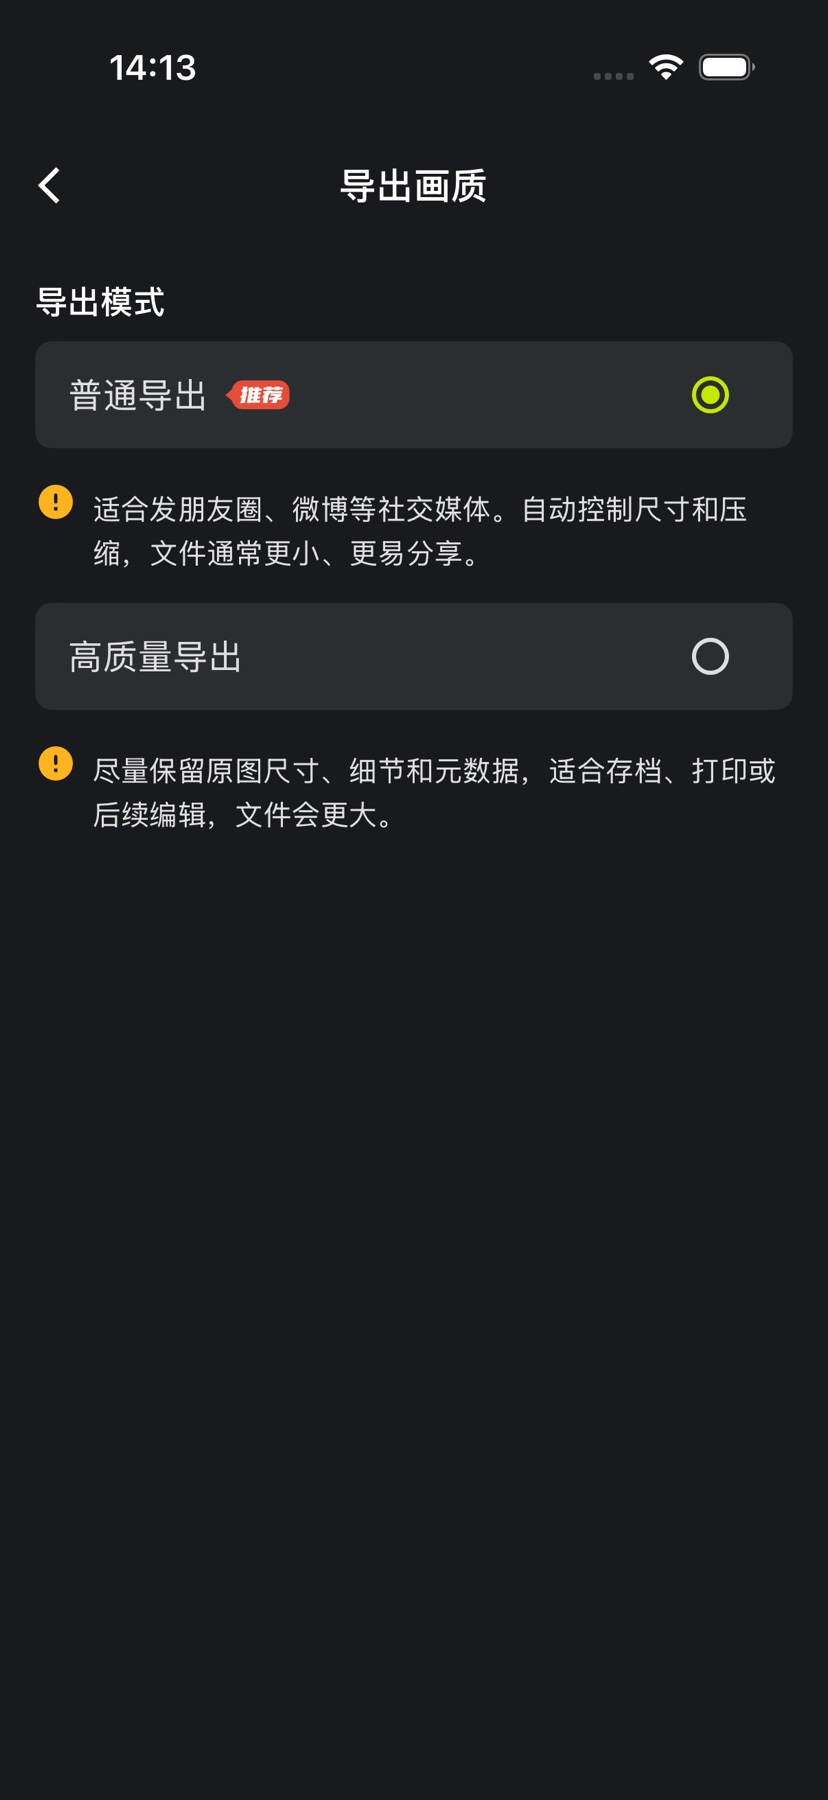
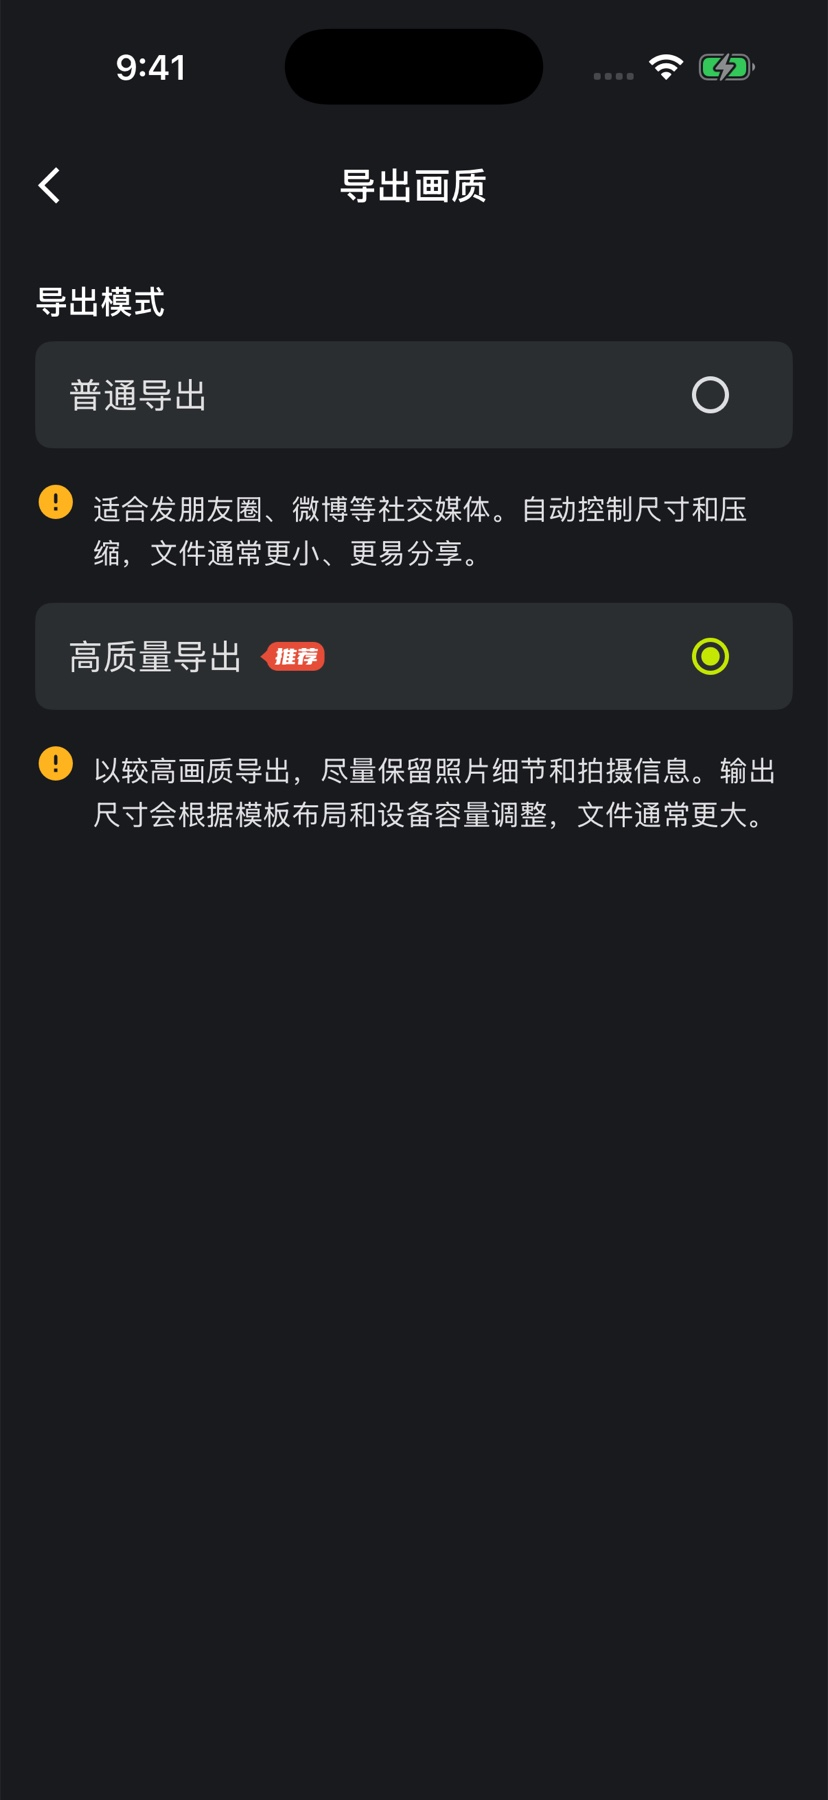
统一为 iOS 实际截图并使用补齐 EXIF 的摄影素材

diff --git a/light-shadow-border/index.html b/light-shadow-border/index.html
@@ -5,17 +5,17 @@
 <title>光影边框 · 照片边框、参数水印与批量编辑</title>
 <meta name="description" content="光影边框，为照片与视频添加边框、参数水印、旅行票根与创意模板。自定义 Logo、文字与版式，批量保存喜欢的风格。支持 iOS、Android 与 HarmonyOS。">
 <meta property="og:title" content="光影边框 · 照片边框、参数水印与批量编辑"><meta property="og:description" content="看真实 App 界面：从首页选模板，到调整 Logo、拍摄参数、画幅与导出画质。"><meta property="og:type" content="website">
-<link rel="icon" href="assets/icon.png" type="image/png"><link rel="stylesheet" href="style.css?v=20261116-app-screens"><script src="download-routing.js?v=20261116-app-screens" defer></script><script src="app.js?v=20261116-app-screens" defer></script>
+<link rel="icon" href="assets/icon.png" type="image/png"><link rel="stylesheet" href="style.css?v=20261116-ios-exif"><script src="download-routing.js?v=20261116-ios-exif" defer></script><script src="app.js?v=20261116-ios-exif" defer></script>
 </head>
 <body>
 <a class="skip-link" href="#main">跳到正文</a>
 <header class="site-header"><div class="header-inner"><a class="brand" href="#main" aria-label="光影边框首页"><img src="assets/icon.png" alt="" width="32" height="32"><span>光影边框</span></a><nav class="main-nav" aria-label="页面导航"><a href="#app-tour">App 界面</a><a href="#templates">模板</a><a class="nav-secondary" href="#cooperation">品牌合作</a><a href="#support">支持</a></nav><a class="header-action" href="#download">获取 App <span aria-hidden="true">↗</span></a></div></header>
 <main id="main">
-<section class="hero hero-product" aria-labelledby="hero-title"><div class="hero-glow" aria-hidden="true"></div><div class="hero-product-grid wrap"><div class="hero-content"><p class="eyebrow-pill"><span class="color-dot" aria-hidden="true"></span> 光影边框 · 手机照片与视频边框工具</p><h1 id="hero-title">照片加边框，<br><span class="gradient-text">水印、参数一起留。</span></h1><p class="hero-description">从首页选一个模板，加入自己的照片。调整 Logo、相机型号、焦距、光圈、快门与 ISO，再把同一组照片批量保存到相册。</p><div class="hero-feature-tags"><span>照片边框</span><span>EXIF 参数水印</span><span>自定义 Logo</span><span>多图批量编辑</span></div><div class="hero-actions"><a class="button button-dark" href="https://apps.apple.com/cn/app/id6446897199" target="_blank" rel="noopener noreferrer"><svg viewBox="0 0 24 24" aria-hidden="true"><rect x="7" y="2.5" width="10" height="19" rx="2.5"></rect><path d="M10 5h4M11 18.5h2"></path></svg>在 App Store 获取</a><a class="button button-light" href="#app-tour">看看 App 怎么用 <span aria-hidden="true">↓</span></a></div><p class="hero-meta">iOS / Android / HarmonyOS <span>·</span> 基础功能免费，含会员增值服务</p></div><div class="hero-app-screens" aria-label="光影边框实际 App 界面"><figure class="hero-app-home"><a href="assets/app-home-android.jpg" target="_blank" rel="noopener noreferrer" aria-label="查看模板首页大图"><div class="app-phone"><img src="assets/app-home-android.jpg" alt="光影边框 Android 首页：按分类展示光影水印、背景模糊等模板，底部包含首页、视频专区和我的。" width="1080" height="2340" fetchpriority="high"></div></a><figcaption>首页选模板</figcaption></figure><figure class="hero-app-editor"><a href="assets/app-editor-android.jpg" target="_blank" rel="noopener noreferrer" aria-label="查看照片编辑页大图"><div class="app-phone"><img src="assets/app-editor-android.jpg" alt="光影边框 Android 编辑页：海边照片配合模糊背景和 Nikon 拍摄参数，底部提供画幅比例、Logo、参数、主题、阴影和边距。" width="1080" height="2340" decoding="async"></div></a><figcaption>在编辑页调比例、Logo 与参数</figcaption></figure><p class="hero-screen-note">Android App 实际界面 · 点击截图可查看大图</p></div></div></section>
+<section class="hero hero-product" aria-labelledby="hero-title"><div class="hero-glow" aria-hidden="true"></div><div class="hero-product-grid wrap"><div class="hero-content"><p class="eyebrow-pill"><span class="color-dot" aria-hidden="true"></span> 光影边框 · 手机照片与视频边框工具</p><h1 id="hero-title">照片加边框，<br><span class="gradient-text">水印、参数一起留。</span></h1><p class="hero-description">从首页选一个模板，加入自己的照片。调整 Logo、相机型号、焦距、光圈、快门与 ISO，再把同一组照片批量保存到相册。</p><div class="hero-feature-tags"><span>照片边框</span><span>EXIF 参数水印</span><span>自定义 Logo</span><span>多图批量编辑</span></div><div class="hero-actions"><a class="button button-dark" href="https://apps.apple.com/cn/app/id6446897199" target="_blank" rel="noopener noreferrer"><svg viewBox="0 0 24 24" aria-hidden="true"><rect x="7" y="2.5" width="10" height="19" rx="2.5"></rect><path d="M10 5h4M11 18.5h2"></path></svg>在 App Store 获取</a><a class="button button-light" href="#app-tour">看看 App 怎么用 <span aria-hidden="true">↓</span></a></div><p class="hero-meta">iOS / Android / HarmonyOS <span>·</span> 基础功能免费，含会员增值服务</p></div><div class="hero-app-screens" aria-label="光影边框实际 App 界面"><figure class="hero-app-home"><a href="assets/app-home-ios.jpg" target="_blank" rel="noopener noreferrer" aria-label="查看模板首页大图"><div class="app-phone"><img src="assets/app-home-ios.jpg" alt="光影边框 iOS 首页：按分类展示光影水印、背景模糊等模板，底部包含首页、视频专区和我的。" width="1206" height="2622" fetchpriority="high"></div></a><figcaption>首页选模板</figcaption></figure><figure class="hero-app-editor"><a href="assets/app-editor-ios.jpg" target="_blank" rel="noopener noreferrer" aria-label="查看照片编辑页大图"><div class="app-phone"><img src="assets/app-editor-ios.jpg" alt="光影边框 iOS 编辑页：山海摄影示例配合模糊背景和 Sony 拍摄参数，底部提供画幅比例、Logo、参数、主题、阴影和边距。" width="1206" height="2622" decoding="async"></div></a><figcaption>在编辑页调比例、Logo 与参数</figcaption></figure><p class="hero-screen-note">iOS App 实际界面 · 点击截图可查看大图</p></div></div></section>
 
 
 
-<section class="app-tour-section wrap" id="app-tour" aria-labelledby="app-tour-title"><div class="section-intro centered"><p class="eyebrow">打开 App，实际就是这样用</p><h2 id="app-tour-title">模板、编辑、批量保存，<br>看一遍就知道怎么做。</h2><p>下面展示实际 App 截图。切换步骤，查看对应的界面和操作。</p></div><div class="app-tour-tabs" role="tablist" aria-label="App 操作步骤"><button id="app-tab-home" type="button" role="tab" aria-selected="true" aria-controls="app-tour-panel" tabindex="0" data-app-step="home">01 选模板</button><button id="app-tab-editor" type="button" role="tab" aria-selected="false" aria-controls="app-tour-panel" tabindex="-1" data-app-step="editor">02 调边框</button><button id="app-tab-batch" type="button" role="tab" aria-selected="false" aria-controls="app-tour-panel" tabindex="-1" data-app-step="batch">03 批量编辑</button><button id="app-tab-logo" type="button" role="tab" aria-selected="false" aria-controls="app-tour-panel" tabindex="-1" data-app-step="logo">04 改 Logo</button><button id="app-tab-quality" type="button" role="tab" aria-selected="false" aria-controls="app-tour-panel" tabindex="-1" data-app-step="quality">05 选画质</button></div><div class="app-tour-panel" id="app-tour-panel" role="tabpanel" aria-labelledby="app-tab-home" tabindex="0"><div class="tour-screen-stage" id="tour-screen-stage" data-frame="phone"><a id="tour-screen-link" href="assets/app-home-android.jpg" target="_blank" rel="noopener noreferrer" aria-label="查看当前 App 界面大图"><div class="tour-image-frame"><img id="tour-screen" src="assets/app-home-android.jpg" alt="光影边框 Android 模板首页。" width="1080" height="2340" loading="lazy"></div></a></div><div class="tour-step-copy"><p class="eyebrow" id="tour-platform">模板首页 · Android 实际截图</p><h3 id="tour-step-title">先在首页，挑好想用的模板。</h3><p id="tour-step-description">光影水印、背景模糊等模板按类别排列，先看预览再进入编辑。底部还有视频专区和我的，照片和视频的入口一眼能分清。</p><ul id="tour-step-points"><li>浏览每一类模板的成图预览。</li><li>点选模板后，从相册加入自己的照片。</li><li>视频水印从底部“视频专区”进入。</li></ul><p class="tour-action-hint" id="tour-action-hint">操作路径：首页 → 选择模板 → 相册选图</p><a class="text-link" href="#download">在自己的手机上体验 <span aria-hidden="true">↗</span></a></div></div><p class="image-note">截图来自 Android 与 iOS 版本；可点击查看大图，界面会随平台和版本有所不同。</p></section>
+<section class="app-tour-section wrap" id="app-tour" aria-labelledby="app-tour-title"><div class="section-intro centered"><p class="eyebrow">打开 App，实际就是这样用</p><h2 id="app-tour-title">模板、编辑、批量保存，<br>看一遍就知道怎么做。</h2><p>下面展示实际 App 截图。切换步骤，查看对应的界面和操作。</p></div><div class="app-tour-tabs" role="tablist" aria-label="App 操作步骤"><button id="app-tab-home" type="button" role="tab" aria-selected="true" aria-controls="app-tour-panel" tabindex="0" data-app-step="home">01 选模板</button><button id="app-tab-editor" type="button" role="tab" aria-selected="false" aria-controls="app-tour-panel" tabindex="-1" data-app-step="editor">02 调边框</button><button id="app-tab-batch" type="button" role="tab" aria-selected="false" aria-controls="app-tour-panel" tabindex="-1" data-app-step="batch">03 批量编辑</button><button id="app-tab-logo" type="button" role="tab" aria-selected="false" aria-controls="app-tour-panel" tabindex="-1" data-app-step="logo">04 改 Logo</button><button id="app-tab-quality" type="button" role="tab" aria-selected="false" aria-controls="app-tour-panel" tabindex="-1" data-app-step="quality">05 选画质</button></div><div class="app-tour-panel" id="app-tour-panel" role="tabpanel" aria-labelledby="app-tab-home" tabindex="0"><div class="tour-screen-stage" id="tour-screen-stage" data-frame="phone"><a id="tour-screen-link" href="assets/app-home-ios.jpg" target="_blank" rel="noopener noreferrer" aria-label="查看当前 App 界面大图"><div class="tour-image-frame"><img id="tour-screen" src="assets/app-home-ios.jpg" alt="光影边框 iOS 模板首页。" width="1206" height="2622" loading="lazy"></div></a></div><div class="tour-step-copy"><p class="eyebrow" id="tour-platform">模板首页 · iOS 实际截图</p><h3 id="tour-step-title">先在首页，挑好想用的模板。</h3><p id="tour-step-description">光影水印、背景模糊等模板按类别排列，先看预览再进入编辑。底部还有视频专区和我的，照片和视频的入口一眼能分清。</p><ul id="tour-step-points"><li>浏览每一类模板的成图预览。</li><li>点选模板后，从相册加入自己的照片。</li><li>视频水印从底部“视频专区”进入。</li></ul><p class="tour-action-hint" id="tour-action-hint">操作路径：首页 → 选择模板 → 相册选图</p><a class="text-link" href="#download">在自己的手机上体验 <span aria-hidden="true">↗</span></a></div></div><p class="image-note">以上均为 iOS App 实际界面；可点击查看大图，Android 与鸿蒙界面可能有所不同。</p></section>
 
 <section class="templates-section" id="templates" aria-labelledby="templates-title"><div class="wrap"><div class="section-intro centered"><p class="eyebrow">模板里，具体能做这些</p><h2 id="templates-title">参数水印、票根、色卡，<br>直接从模板开始。</h2><p>下面是 App 内置模板的实际预览。<br>选好模板后，还可以继续调整文字、颜色、Logo 与布局。</p></div><div class="template-grid"><article class="template-card"><div class="template-art watermark-art"><img src="assets/template-watermark.webp" alt="App 内置模板预览：吊桥风景照片，下方展示相机品牌与拍摄参数。" width="1200" height="933" loading="lazy"></div><span class="template-index">01 / 摄影记录</span><h3>参数水印：品牌、机型与拍摄数据。</h3><p>把相机品牌、机型、焦距、光圈、快门与 ISO 排进边框；支持自动读取照片参数，也能手动修改。</p></article><article class="template-card"><div class="template-art ticket-art"><img src="assets/template-ticket.webp" alt="App 内置旅行票根模板：海边照片与城市名称、日期和条码组成票根。" width="1500" height="2000" loading="lazy"></div><span class="template-index">02 / 旅行票根</span><h3>旅行票根：城市、日期与编号。</h3><p>在照片旁加入城市名称、日期与编号，调整主题、字色与圆角，让旅行记录以票根的形式呈现。</p></article><article class="template-card"><div class="template-art palette-art"><img src="assets/template-palette.webp" alt="App 内置玻璃色卡模板：绿色森林照片上呈现毛玻璃配色卡片。" width="1500" height="2000" loading="lazy"></div><span class="template-index">03 / 色彩灵感</span><h3>玻璃色卡：把配色融入画面。</h3><p>将照片配色与半透明卡片组合，配合布局、文字与背景细节，做出色卡与玻璃层次效果。</p></article></div><div class="template-category-list" aria-label="其他模板类别"><span>纯白边框</span><span>背景模糊</span><span>电影字幕</span><span>卡片边框</span><span>照片拼贴</span><span>一周日常</span></div><p class="image-note">以上为 App 自带模板预览；具体可用模板以所用平台为准。</p></div></section>
 

diff --git a/light-shadow-border/app.js b/light-shadow-border/app.js
@@ -68,11 +68,11 @@ if(downloadRouting){
 }
 
 const appTourSteps={
- home:{image:'assets/app-home-android.jpg',alt:'光影边框 Android 首页，展示光影水印、背景模糊模板及底部导航。',platform:'模板首页 · Android 实际截图',frame:'phone',title:'先在首页，挑好想用的模板。',description:'光影水印、背景模糊等模板按类别排列，先看预览再进入编辑。底部还有视频专区和我的，照片和视频的入口一眼能分清。',points:['浏览每一类模板的成图预览。','点选模板后，从相册加入自己的照片。','视频水印从底部“视频专区”进入。'],path:'操作路径：首页 → 选择模板 → 相册选图'},
- editor:{image:'assets/app-editor-android.jpg',alt:'Android 编辑页中的海边照片，展示模糊背景、Nikon 参数以及底部比例选项。',platform:'边框编辑 · Android 实际截图',frame:'phone',title:'比例、Logo、参数，切换面板直接调。',description:'照片在上方预览，工具集中在底部。以截图中的背景模糊模板为例，可以切换原图、16:9、3:4 和 9:16，再继续调整 Logo、参数、主题、阴影与边距。',points:['选择比例，让作品适合横向或竖向分享。','型号、焦距、光圈、快门与 ISO 支持自动读取或手动修改。','照片下方的缩略图栏，可以随时切换和继续添加照片。'],path:'操作路径：编辑页 → 底部设置面板 → 查看预览'},
- batch:{image:'assets/app-batch-android.jpg',alt:'Android 编辑页中的横向照片，下方排列两张已选照片缩略图与添加按钮。',platform:'多图编辑 · Android 实际截图',frame:'phone',title:'同一组照片，一套边框批量做。',description:'已选照片出现在预览下方，点缩略图逐张检查效果，也可以用加号继续添加。为一组照片使用相同的模板设置，再通过右上角保存入口批量导出。',points:['多张照片放在同一编辑会话中，减少重复进入模板。','逐张切换检查画面，需要时添加或移除照片。','保存时按顺序处理，结果页显示成功、失败与未处理数量。'],path:'操作路径：多选照片 → 缩略图切换检查 → 右上角保存'},
- logo:{image:'assets/app-logo-panel-ios.jpg',alt:'iOS Logo 面板局部截图，展示内置 Canon、DJI、Insta360、Fujifilm、Sony 素材以及推荐、我的、大小选项。',platform:'Logo 面板 · iOS 局部截图',frame:'panel',title:'选内置 Logo，也能放自己的签名。',description:'Logo 面板提供内置素材选择，界面中有“推荐”“我的”“大小”入口。你可以切换品牌素材，或导入自己的 Logo，再调整到适合当前版式的尺寸。',points:['内置 Logo 可直接在素材列表里选择。','通过“我的”使用自己的素材，保持作品签名一致。','调整 Logo 大小；不同模板还提供对应的文字、参数和配方选项。'],path:'操作路径：编辑页 → Logo → 推荐 / 我的 / 大小'},
- quality:{image:'assets/app-quality-ios.jpg',alt:'iOS 导出画质设置，提供普通导出和高质量导出两种选项及用途说明。',platform:'导出画质 · iOS 实际截图',frame:'phone',title:'普通或高质量导出，按用途选择。',description:'在导出画质设置里选择普通导出或高质量导出。普通导出便于社交分享，高质量导出更适合存档、打印或后续编辑，文件也通常更大。',points:['普通导出会控制尺寸与压缩，便于日常分享。','高质量导出尽量保留原图尺寸、细节与元数据。','实际成图仍受源照片、模板和导出格式影响。'],path:'操作路径：我的 → 导出画质 → 选择导出模式'}
+ home:{image:'assets/app-home-ios.jpg',alt:'光影边框 iOS 首页，展示光影水印、背景模糊模板及底部导航。',platform:'模板首页 · iOS 实际截图',frame:'phone',title:'先在首页，挑好想用的模板。',description:'光影水印、背景模糊等模板按类别排列，先看预览再进入编辑。底部还有视频专区和我的，照片和视频的入口一眼能分清。',points:['浏览每一类模板的成图预览。','点选模板后，从相册加入自己的照片。','视频水印从底部“视频专区”进入。'],path:'操作路径：首页 → 选择模板 → 相册选图'},
+ editor:{image:'assets/app-editor-ios.jpg',alt:'iOS 编辑页中的山海摄影示例，展示模糊背景、Sony 参数水印以及底部比例选项。',platform:'边框编辑 · iOS 实际截图',frame:'phone',title:'比例、Logo、参数，切换面板直接调。',description:'照片在上方预览，工具集中在底部。以截图中的背景模糊模板为例，可以切换原图、16:9、3:4 和 9:16，再继续调整 Logo、参数、主题、阴影与边距。',points:['选择比例，让作品适合横向或竖向分享。','截图示例：SONY ILCE-7M4，35mm、F5.6、1/250s、ISO100，均来自演示 EXIF。','照片下方的缩略图栏，可以随时切换和继续添加照片。'],path:'操作路径：编辑页 → 底部设置面板 → 查看预览'},
+ batch:{image:'assets/app-batch-ios.jpg',alt:'iOS 编辑页中的城市摄影示例，显示 Fujifilm 参数水印与一组照片缩略图。',platform:'多图编辑 · iOS 实际截图',frame:'phone',title:'同一组照片，一套边框批量做。',description:'已选照片出现在预览下方，点缩略图逐张检查效果，也可以用加号继续添加。为一组照片使用相同的模板设置，再通过右上角保存入口批量导出。',points:['多张照片放在同一编辑会话中，减少重复进入模板。','逐张切换检查画面，需要时添加或移除照片。','保存时按顺序处理，结果页显示成功、失败与未处理数量。'],path:'操作路径：多选照片 → 缩略图切换检查 → 右上角保存'},
+ logo:{image:'assets/app-logo-ios.jpg',alt:'iOS 编辑器 Logo 面板，展示山海摄影示例、Sony 参数水印、品牌 Logo 与推荐、我的、大小选项。',platform:'Logo 面板 · iOS 实际截图',frame:'phone',title:'选内置 Logo，也能放自己的签名。',description:'Logo 面板提供内置素材选择，界面中有“推荐”“我的”“大小”入口。你可以切换品牌素材，或导入自己的 Logo，再调整到适合当前版式的尺寸。',points:['内置 Logo 可直接在素材列表里选择。','通过“我的”使用自己的素材，保持作品签名一致。','调整 Logo 大小；不同模板还提供对应的文字、参数和配方选项。'],path:'操作路径：编辑页 → Logo → 推荐 / 我的 / 大小'},
+ quality:{image:'assets/app-quality-ios.jpg?v=20261116-ios-exif',alt:'iOS 导出画质设置，提供普通导出和高质量导出两种选项及用途说明。',platform:'导出画质 · iOS 实际截图',frame:'phone',title:'普通或高质量导出，按用途选择。',description:'在导出画质设置里选择普通导出或高质量导出。普通导出便于社交分享，高质量导出更适合存档、打印或后续编辑，文件也通常更大。',points:['普通导出会控制尺寸与压缩，便于日常分享。','高质量导出尽量保留照片细节与拍摄信息。','实际成图仍受源照片、模板和导出格式影响。'],path:'操作路径：我的 → 导出画质 → 选择导出模式'}
 };
 const appTourTabs=[...document.querySelectorAll('[data-app-step]')];
 function selectAppTour(key){
@@ -80,7 +80,7 @@ function selectAppTour(key){
  appTourTabs.forEach(tab=>{const selected=tab.dataset.appStep===key;tab.setAttribute('aria-selected',String(selected));tab.tabIndex=selected?0:-1;});
  document.getElementById('app-tour-panel').setAttribute('aria-labelledby','app-tab-'+key);
  const image=document.getElementById('tour-screen');image.src=step.image;image.alt=step.alt;
- const dimensions=step.frame==='panel'?[1125,900]:key==='quality'?[1206,2622]:[1080,2340];
+ const dimensions=[1206,2622];
  image.setAttribute('width',String(dimensions[0]));image.setAttribute('height',String(dimensions[1]));
  document.getElementById('tour-screen-link').href=step.image;
  document.getElementById('tour-screen-stage').dataset.frame=step.frame;
